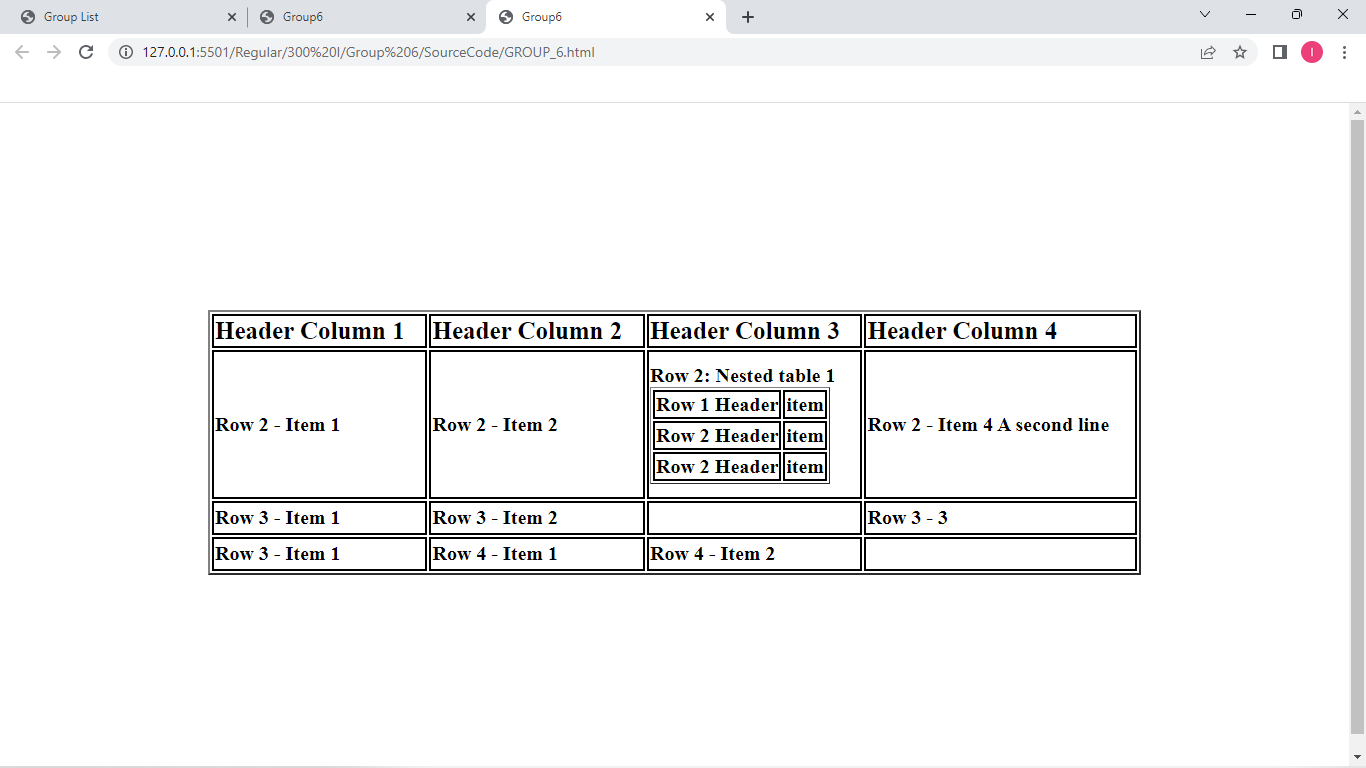
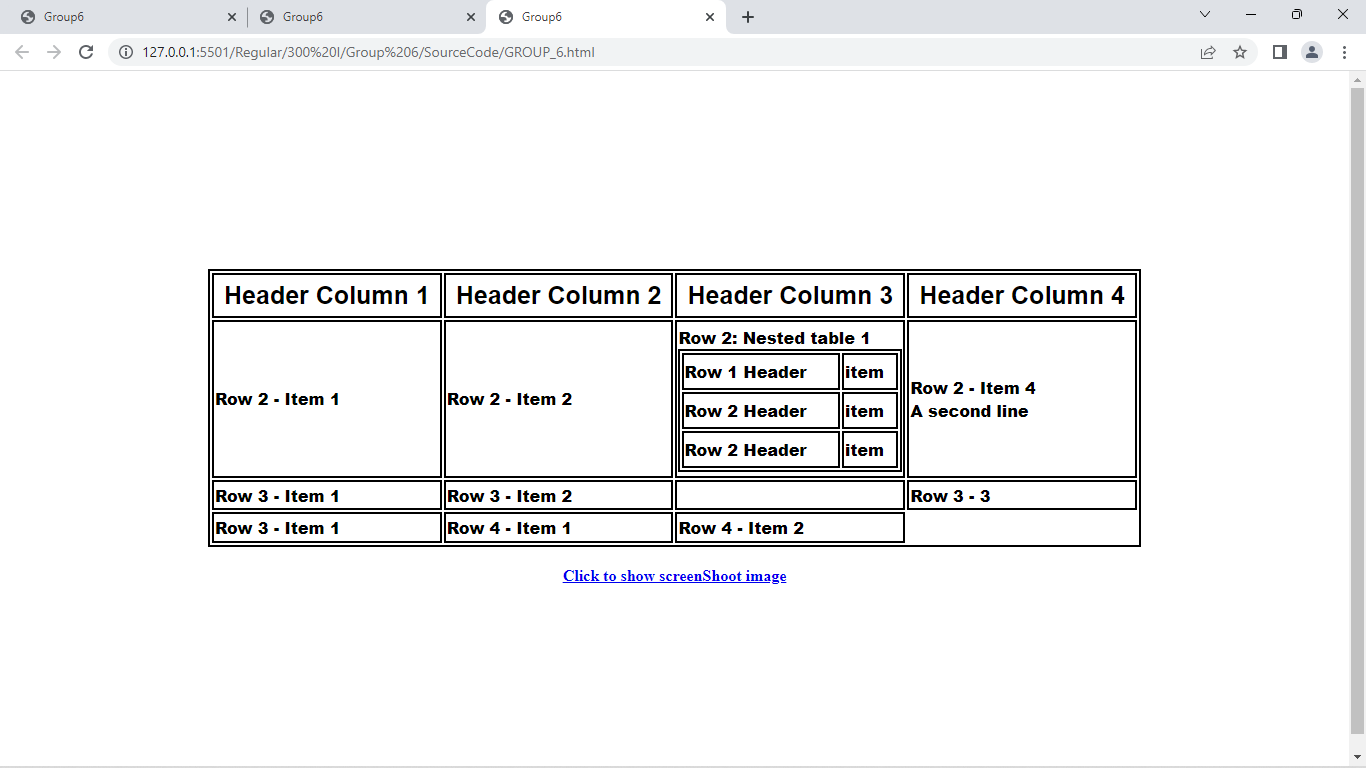
final tourches of the work

diff --git a/Regular/300 I/Group 6/SourceCode/GROUP_6.html b/Regular/300 I/Group 6/SourceCode/GROUP_6.html
@@ -10,17 +10,17 @@
     <table border="2" class="main-table" align="center">
       <thead class="thead">
         <tr class="thead">
-          <td>Header Column 1</td>
-          <td>Header Column 2</td>
-          <td>Header Column 3</td>
-          <td>Header Column 4</td>
+          <th>Header Column 1</th>
+          <th>Header Column 2</th>
+          <th>Header Column 3</th>
+          <th>Header Column 4</th>
         </tr>
       </thead>
       <tbody class="tbody">
         <tr class="body-row1">
           <td>Row 2 - Item 1</td>
           <td>Row 2 - Item 2</td>
-          <td>
+          <td class="nested">
             Row 2: Nested table 1
             <table border="1">
               <tbody>
@@ -39,7 +39,10 @@
               </tbody>
             </table>
           </td>
-          <td>Row 2 - Item 4 A second line</td>
+          <td>
+            Row 2 - Item 4 <br />
+            A second line
+          </td>
         </tr>
         <tr class="body-row2">
           <td>Row 3 - Item 1</td>
@@ -51,7 +54,7 @@
           <td>Row 3 - Item 1</td>
           <td>Row 4 - Item 1</td>
           <td>Row 4 - Item 2</td>
-          <td></td>
+          <td id="last-row"></td>
         </tr>
       </tbody>
     </table>
@@ -63,10 +66,11 @@
     <style>
       body {
         height: 100vh;
-        font-weight: bold;
         display: flex;
-        align-content: center;
-        font-weight: bolder;
+        flex-direction: column;
+        align-items: center;
+        justify-content: center;
+        font-weight: 900;
       }
       .main-table {
         height: 40%;
@@ -74,20 +78,39 @@
         align-items: center;
         align-content: center;
         align-self: center;
-      }
-      .thead {
-        font-family: "Times New Roman", Times, serif;
-        font-weight: bolder;
-        font-size: 25px;
-      }
-
-      .tbody {
-        font-weight: bold;
-        font-size: 20px;
-      }
-
-      td {
         border: solid 2px;
+
+      }
+      .main-table table{
+        border: solid 2px;
+        width: 100%;
+      }
+      td{
+        border: solid 2px;
+        font-family: Arial, Helvetica, sans-serif;
+      }
+
+      th {
+        font-size: 20px;
+        padding: 6px 0;
+        font-family: sans-serif;
+        font-size: 25px;
+        border: solid 2px;
+      }
+
+      table:nth-of-type(1) tbody tr td:nth-of-type(3) table tr td:first-of-type  {
+        font-weight: bolder;
+        padding: 5px 0;
+        font-family: arial black;
+      }
+      a {
+        margin-top: 20px;
+      }
+      #last-row{
+        border: none;
+      }
+      .nested{
+        font-weight: bolder;
       }
     </style>
   </body>
